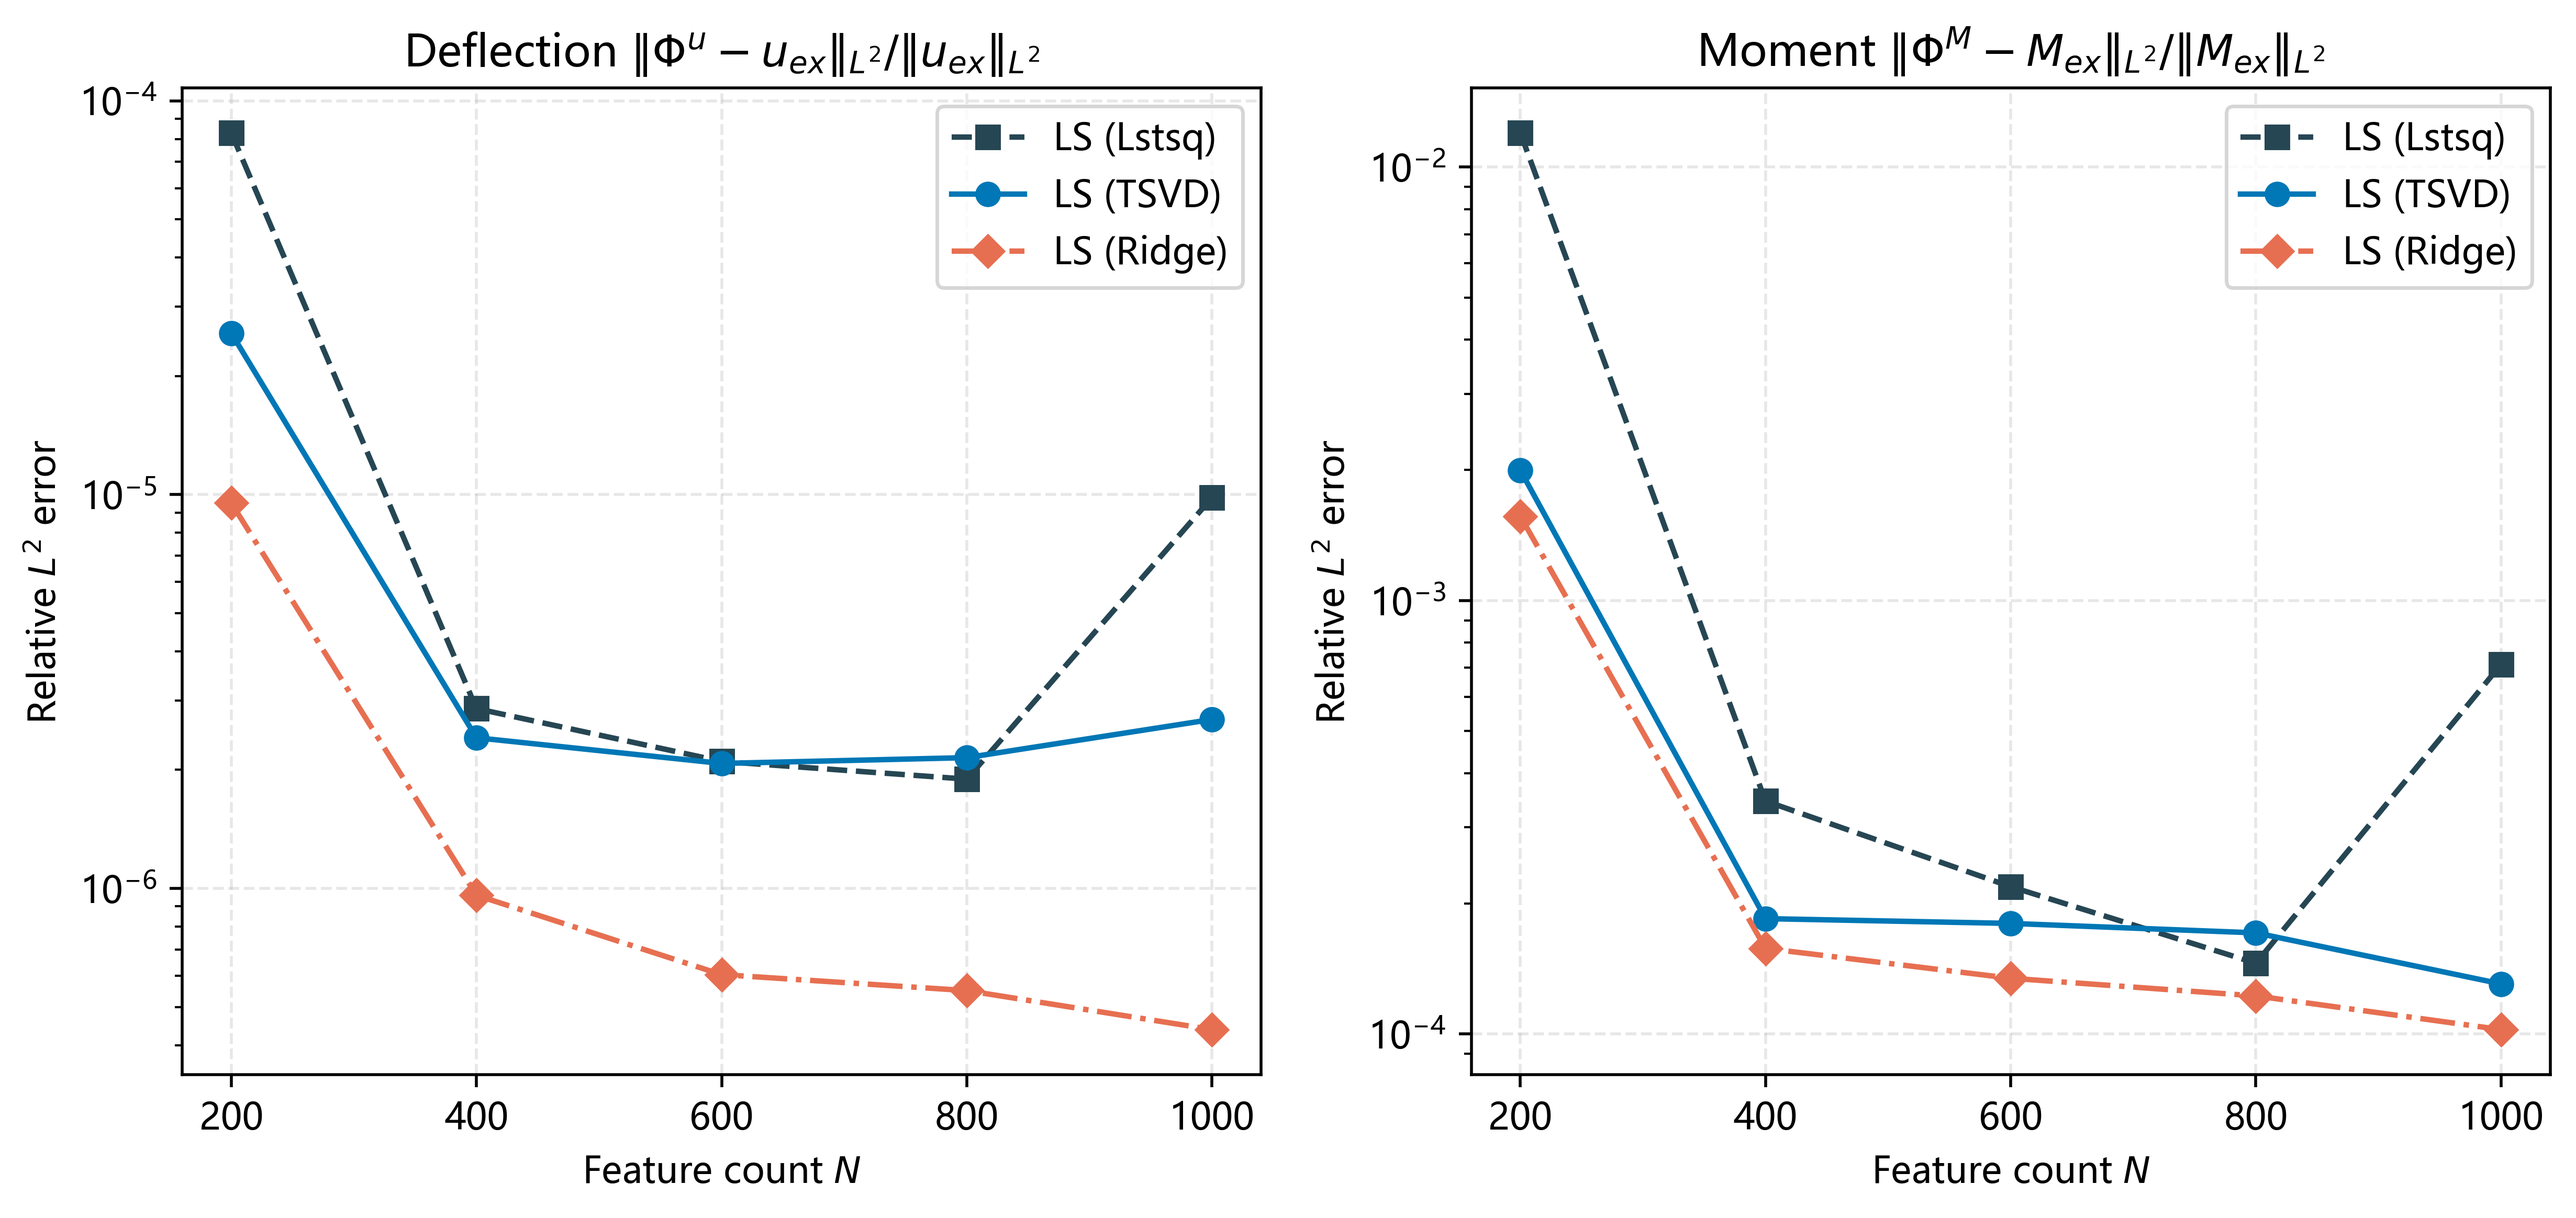
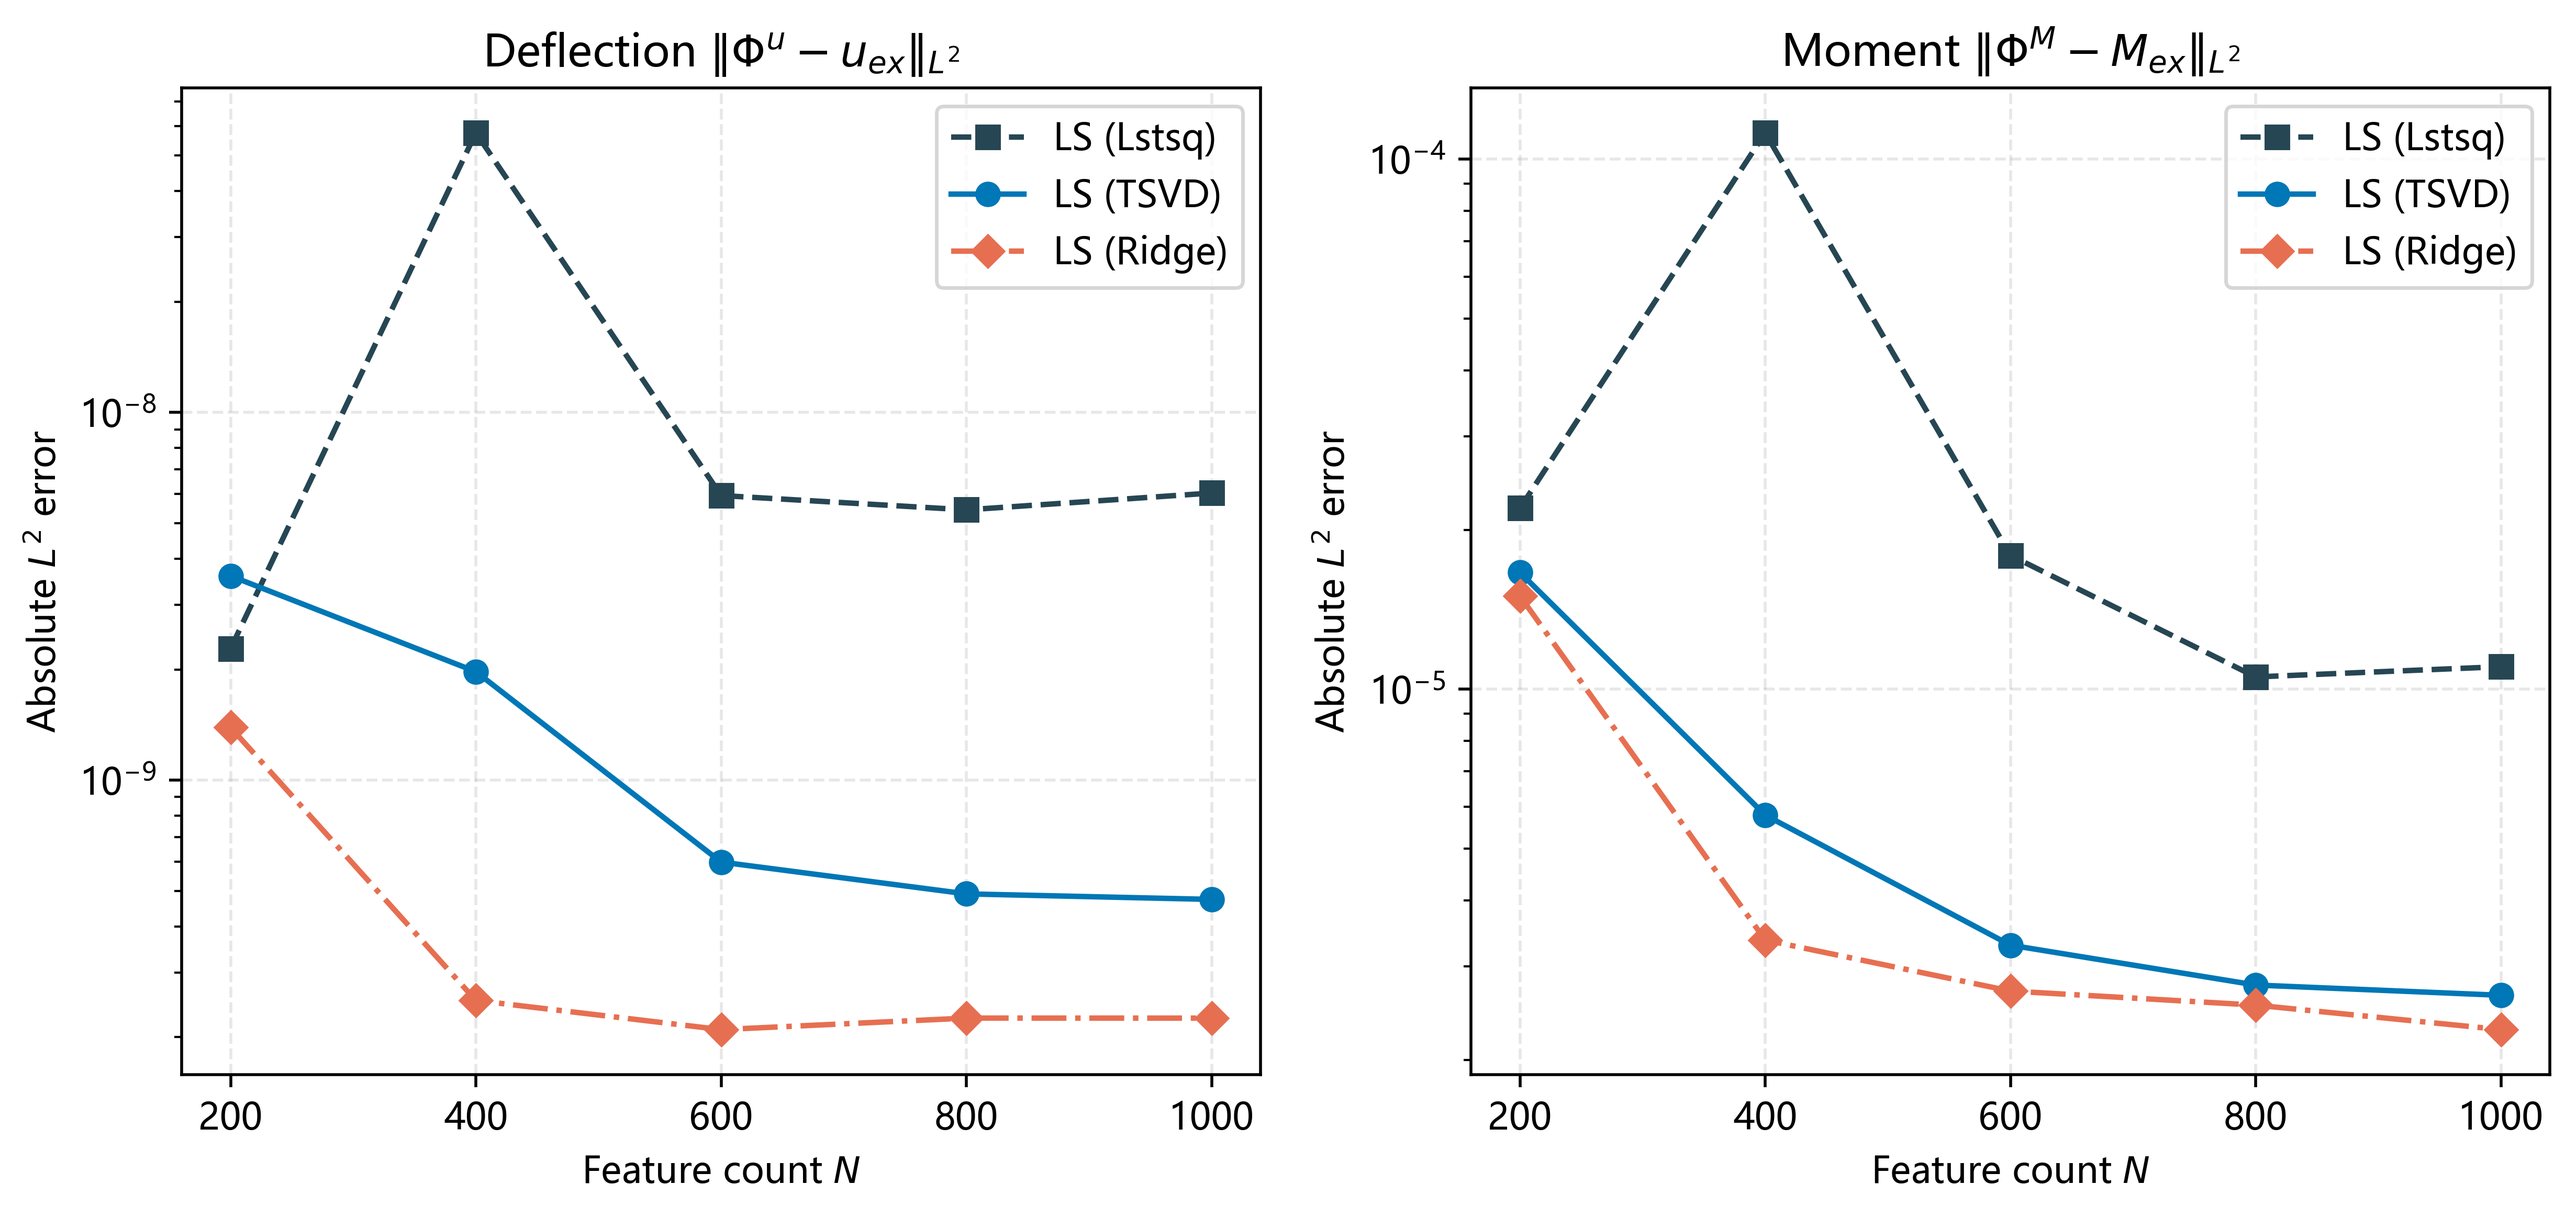
refactor: use absolute errors

diff --git a/experiments/least-squares/plate-bending/plate_bending.py b/experiments/least-squares/plate-bending/plate_bending.py
@@ -21,6 +21,9 @@ DEFLECTION_SEED = BASE_SEED + 1_000
 DTYPE = torch.float64
 VALID_SAMPLING_METHODS = ("mc", "sobol", "gauss_legendre")
 VALID_ALGORITHMS = ("lstsq", "tsvd", "ridge")
+FEATURE_DIM = 2
+FEATURE_CENTER = 0.5
+FEATURE_INV_RADIUS = 2.0 / math.sqrt(FEATURE_DIM)
 PROJECT_ROOT = Path(__file__).resolve().parent.parent.parent.parent
 OUTPUT_DIR = PROJECT_ROOT / "public" / "images" / "least-squares" / "plate-bending"
 OUTPUT_DIR.mkdir(parents=True, exist_ok=True)
@@ -61,8 +64,8 @@ class AlgorithmResult:
     name: str
     r_c: float
     r_e: float
-    rel_u: float
-    rel_M: float
+    abs_u: float
+    abs_M: float
     wall_time: float
 
 
@@ -118,7 +121,7 @@ class FeatureEvaluationData:
 class LeastSquaresConfig:
     """Configuration for the conforming least-squares experiment."""
 
-    E: float = 1.0
+    E: float = 12.0
     nu: float = 0.3
     h: float = 1.0
     gamma_m: float = 3.0
@@ -431,11 +434,17 @@ def generate_features(N: int, seed: int) -> tuple[torch.Tensor, torch.Tensor]:
     generator = torch.Generator(device="cpu")
     generator.manual_seed(seed)
 
-    raw = torch.randn(N, 2, generator=generator, dtype=DTYPE)
+    raw = torch.randn(N, FEATURE_DIM, generator=generator, dtype=DTYPE)
     norms = raw.norm(dim=1, keepdim=True).clamp_min(1.0e-12)
     a = (raw / norms).to(DEVICE)
     r = torch.rand(N, generator=generator, dtype=DTYPE).to(DEVICE)
     return a, r
+
+
+def normalize_feature_coordinates(x: torch.Tensor) -> torch.Tensor:
+    """Map unit-box coordinates into the centered unit ball for features."""
+
+    return (x - FEATURE_CENTER) * FEATURE_INV_RADIUS
 
 
 def eval_features(
@@ -444,9 +453,10 @@ def eval_features(
     r: torch.Tensor,
     gamma: float,
 ) -> torch.Tensor:
-    """Evaluate xi_0 = 1 and xi_m = tanh(gamma (a_m^T x + r_m))."""
+    """Evaluate xi_0 = 1 and xi_m = tanh(gamma (a_m^T x_hat + r_m))."""
 
-    pre = x @ a.T + r.unsqueeze(0)
+    x_hat = normalize_feature_coordinates(x)
+    pre = x_hat @ a.T + r.unsqueeze(0)
     xi = torch.tanh(gamma * pre)
     ones = torch.ones(x.shape[0], 1, dtype=DTYPE, device=DEVICE)
     return torch.cat([ones, xi], dim=1)
@@ -460,11 +470,13 @@ def eval_feature_grads(
 ) -> torch.Tensor:
     """Evaluate gradients of all random features."""
 
-    pre = x @ a.T + r.unsqueeze(0)
+    x_hat = normalize_feature_coordinates(x)
+    pre = x_hat @ a.T + r.unsqueeze(0)
     xi = torch.tanh(gamma * pre)
     dphi = gamma * (1.0 - xi.square())
-    grad_xi = dphi.unsqueeze(2) * a.unsqueeze(0)
-    zeros = torch.zeros(x.shape[0], 1, 2, dtype=DTYPE, device=DEVICE)
+    scaled_a = FEATURE_INV_RADIUS * a
+    grad_xi = dphi.unsqueeze(2) * scaled_a.unsqueeze(0)
+    zeros = torch.zeros(x.shape[0], 1, FEATURE_DIM, dtype=DTYPE, device=DEVICE)
     return torch.cat([zeros, grad_xi], dim=1)
 
 
@@ -476,13 +488,17 @@ def eval_feature_hessians(
 ) -> torch.Tensor:
     """Evaluate Hessian components (11, 22, 12) of all random features."""
 
-    pre = x @ a.T + r.unsqueeze(0)
+    x_hat = normalize_feature_coordinates(x)
+    pre = x_hat @ a.T + r.unsqueeze(0)
     xi = torch.tanh(gamma * pre)
     d2phi = -2.0 * gamma * gamma * xi * (1.0 - xi.square())
+    scaled_a = FEATURE_INV_RADIUS * a
 
-    h11 = d2phi.unsqueeze(2) * a[:, 0].square().unsqueeze(0).unsqueeze(2)
-    h22 = d2phi.unsqueeze(2) * a[:, 1].square().unsqueeze(0).unsqueeze(2)
-    h12 = d2phi.unsqueeze(2) * (a[:, 0] * a[:, 1]).unsqueeze(0).unsqueeze(2)
+    h11 = d2phi.unsqueeze(2) * scaled_a[:, 0].square().unsqueeze(0).unsqueeze(2)
+    h22 = d2phi.unsqueeze(2) * scaled_a[:, 1].square().unsqueeze(0).unsqueeze(2)
+    h12 = d2phi.unsqueeze(2) * (
+        scaled_a[:, 0] * scaled_a[:, 1]
+    ).unsqueeze(0).unsqueeze(2)
     hess = torch.cat([h11, h22, h12], dim=2)
     zeros = torch.zeros(x.shape[0], 1, 3, dtype=DTYPE, device=DEVICE)
     return torch.cat([zeros, hess], dim=1)
@@ -906,7 +922,7 @@ def split_solution(z: torch.Tensor, dim_m: int) -> tuple[torch.Tensor, torch.Ten
     return z[:dim_m], z[dim_m:]
 
 
-def compute_l2_errors(
+def compute_absolute_errors(
     psi_u_test: torch.Tensor,
     xi_m_test: torch.Tensor,
     moment_coeffs: torch.Tensor,
@@ -915,23 +931,17 @@ def compute_l2_errors(
     u_exact: torch.Tensor,
     M_exact: torch.Tensor,
 ) -> tuple[float, float]:
-    """Compute relative L2 errors for deflection and moments."""
+    """Compute absolute L2 errors for deflection and moments."""
 
     M_h = xi_m_test @ moment_coeffs.reshape(-1, 3)
     u_h = psi_u_test @ deflection_coeffs
 
     u_err = torch.sqrt((w_test * (u_h - u_exact).square()).sum())
-    u_ref = torch.sqrt((w_test * u_exact.square()).sum())
-    rel_u = (u_err / u_ref).item() if u_ref > 0 else float("inf")
 
     M_err = torch.sqrt(
         (w_test * (FROBENIUS_WEIGHT * (M_h - M_exact).square()).sum(dim=1)).sum()
     )
-    M_ref = torch.sqrt(
-        (w_test * (FROBENIUS_WEIGHT * M_exact.square()).sum(dim=1)).sum()
-    )
-    rel_M = (M_err / M_ref).item() if M_ref > 0 else float("inf")
-    return rel_u, rel_M
+    return u_err.item(), M_err.item()
 
 
 def compute_coefficient_residual_norms(
@@ -996,7 +1006,7 @@ def evaluate_feature_result(
         moment_coeffs,
         deflection_coeffs,
     )
-    rel_u, rel_M = compute_l2_errors(
+    abs_u, abs_M = compute_absolute_errors(
         data.psi_u_test,
         data.xi_m_test,
         moment_coeffs,
@@ -1009,8 +1019,8 @@ def evaluate_feature_result(
         name=name,
         r_c=r_c,
         r_e=r_e,
-        rel_u=rel_u,
-        rel_M=rel_M,
+        abs_u=abs_u,
+        abs_M=abs_M,
         wall_time=wall_time,
     )
 
@@ -1020,11 +1030,62 @@ def print_result_summary(result: AlgorithmResult) -> None:
 
     print(
         f"    Done in {result.wall_time:.2f}s, "
-        f"||r_c||={result.r_c:.2e}, "
-        f"||r_e||={result.r_e:.2e}, "
-        f"rel_u={result.rel_u:.2e}, "
-        f"rel_M={result.rel_M:.2e}"
+        f"‖Φ^u-u‖={result.abs_u:.2e}, "
+        f"‖Φ^M-M‖={result.abs_M:.2e}"
     )
+
+
+def print_aligned_markdown_table(
+    title: str,
+    headers: Sequence[str],
+    rows: Sequence[Sequence[str]],
+    alignments: Sequence[str],
+) -> None:
+    """Print a compact markdown-style table with content-aware widths."""
+
+    if not rows:
+        return
+    if len(headers) != len(alignments):
+        raise ValueError("headers and alignments must have the same length.")
+    if any(len(row) != len(headers) for row in rows):
+        raise ValueError("Each row must have the same number of columns as headers.")
+
+    widths = [
+        max(len(header), max(len(row[index]) for row in rows))
+        for index, header in enumerate(headers)
+    ]
+
+    def format_row(row: Sequence[str]) -> str:
+        cells: list[str] = []
+        for index, cell in enumerate(row):
+            if alignments[index] == "left":
+                cells.append(f"{cell:<{widths[index]}}")
+            elif alignments[index] == "center":
+                cells.append(f"{cell:^{widths[index]}}")
+            elif alignments[index] == "right":
+                cells.append(f"{cell:>{widths[index]}}")
+            else:
+                raise ValueError(f"Unsupported alignment: {alignments[index]}")
+        return f"| {' | '.join(cells)} |"
+
+    def format_separator() -> str:
+        cells: list[str] = []
+        for index, alignment in enumerate(alignments):
+            if alignment == "left":
+                cells.append(f":{'-' * (widths[index] + 1)}")
+            elif alignment == "center":
+                cells.append(f":{'-' * widths[index]}:")
+            elif alignment == "right":
+                cells.append(f"{'-' * (widths[index] + 1)}:")
+            else:
+                raise ValueError(f"Unsupported alignment: {alignment}")
+        return f"|{'|'.join(cells)}|"
+
+    print(f"\n=== {title} ===\n")
+    print(format_row(headers))
+    print(format_separator())
+    for row in rows:
+        print(format_row(row))
 
 
 def print_summary_table(
@@ -1036,21 +1097,27 @@ def print_summary_table(
     if not results:
         return
 
-    method_width = max(18, max(len(result.name) for result in results))
-    print(f"\n=== {title} ===\n")
-    print(
-        f"| {'Method':<{method_width}} | {'rel_u':>10} | "
-        f"{'rel_M':>10} | {'Time(s)':>8} |"
+    headers = (
+        "Method",
+        "‖Φ^u-u‖",
+        "‖Φ^M-M‖",
+        "Time(s)",
     )
-    print(
-        f"|:{'-' * (method_width + 1)}|{'-' * 11}:|"
-        f"{'-' * 11}:|{'-' * 9}:|"
-    )
-    for result in results:
-        print(
-            f"| {result.name:<{method_width}} | {result.rel_u:>10.2e} | "
-            f"{result.rel_M:>10.2e} | {result.wall_time:>8.2f} |"
+    rows = [
+        (
+            result.name,
+            f"{result.abs_u:.2e}",
+            f"{result.abs_M:.2e}",
+            f"{result.wall_time:.2f}",
         )
+        for result in results
+    ]
+    print_aligned_markdown_table(
+        title=title,
+        headers=headers,
+        rows=rows,
+        alignments=("left", "center", "center", "center"),
+    )
 
 
 def configure_plotting() -> None:
@@ -1064,7 +1131,7 @@ def plot_l2_summary(
     results: Sequence[AlgorithmResult],
     save_path: str,
 ) -> None:
-    """Plot final relative L2 errors as bar charts."""
+    """Plot final absolute L2 errors as bar charts."""
 
     if not results:
         print(f"  Skipped: {save_path} (no results to plot)")
@@ -1073,10 +1140,10 @@ def plot_l2_summary(
     configure_plotting()
     fig, axes = plt.subplots(1, 2, figsize=(10, 4.5))
     titles = [
-        r"Deflection $\|\Phi^u - u_{ex}\|_{L^2} / \|u_{ex}\|_{L^2}$",
-        r"Moment $\|\Phi^M - M_{ex}\|_{L^2} / \|M_{ex}\|_{L^2}$",
+        r"Deflection $\|\Phi^u - u_{ex}\|_{L^2}$",
+        r"Moment $\|\Phi^M - M_{ex}\|_{L^2}$",
     ]
-    keys = ["rel_u", "rel_M"]
+    keys = ["abs_u", "abs_M"]
     labels = [result.name for result in results]
     x_positions = np.arange(len(results), dtype=float)
     colors = [
@@ -1101,7 +1168,7 @@ def plot_l2_summary(
             print(f"  Skipped {labels[index]} {key}={values[index]!r} in {save_path}")
 
         ax.set_yscale("log")
-        ax.set_ylabel("Relative $L^2$ error")
+        ax.set_ylabel("Absolute $L^2$ error")
         ax.set_title(title)
         ax.set_xticks(x_positions)
         ax.set_xticklabels(labels, rotation=20, ha="right")

diff --git a/experiments/least-squares/plate-bending/ablation_N.py b/experiments/least-squares/plate-bending/ablation_N.py
@@ -22,6 +22,7 @@ from plate_bending import (
     build_shared_feature_space,
     clear_cuda_cache,
     configure_plotting,
+    print_aligned_markdown_table,
     run_experiment,
     validate_algorithm_selection,
 )
@@ -118,27 +119,29 @@ def print_ablation_summary_table(
     if not ordered_records:
         return
 
-    method_width = max(
-        18,
-        max(len(record.algorithm_name) for record in ordered_records),
+    headers = (
+        "Method",
+        "N",
+        "‖Φ^u-u‖",
+        "‖Φ^M-M‖",
+        "Time(s)",
     )
-
-    print("\n=== N Ablation Summary ===\n")
-    print(
-        f"| {'Method':<{method_width}} | {'N':>6} | "
-        f"{'rel_u':>10} | {'rel_M':>10} | {'Time(s)':>8} |"
-    )
-    print(
-        f"|:{'-' * (method_width + 1)}|{'-' * 7}:|"
-        f"{'-' * 11}:|{'-' * 11}:|{'-' * 9}:|"
-    )
-    for record in ordered_records:
-        result = record.result
-        print(
-            f"| {record.algorithm_name:<{method_width}} | {record.N:>6} | "
-            f"{result.rel_u:>10.2e} | {result.rel_M:>10.2e} | "
-            f"{result.wall_time:>8.2f} |"
+    rows = [
+        (
+            record.algorithm_name,
+            str(record.N),
+            f"{record.result.abs_u:.2e}",
+            f"{record.result.abs_M:.2e}",
+            f"{record.result.wall_time:.2f}",
         )
+        for record in ordered_records
+    ]
+    print_aligned_markdown_table(
+        title="N Ablation Summary",
+        headers=headers,
+        rows=rows,
+        alignments=("left", "center", "center", "center", "center"),
+    )
 
 
 def plot_ablation_N(
@@ -146,7 +149,7 @@ def plot_ablation_N(
     algorithm_ids: list[str],
     save_path: str,
 ) -> None:
-    """Plot relative L2 error versus N for each configured solver."""
+    """Plot absolute L2 error versus N for each configured solver."""
 
     if not results:
         print(f"  Skipped: {save_path} (no results to plot)")
@@ -160,14 +163,14 @@ def plot_ablation_N(
     fig, axes = plt.subplots(1, 2, figsize=(fig_width, 4.8))
     metric_specs = [
         (
-            "rel_u",
-            r"Deflection $\|\Phi^u - u_{ex}\|_{L^2} / \|u_{ex}\|_{L^2}$",
-            "Relative $L^2$ error",
+            "abs_u",
+            r"Deflection $\|\Phi^u - u_{ex}\|_{L^2}$",
+            "Absolute $L^2$ error",
         ),
         (
-            "rel_M",
-            r"Moment $\|\Phi^M - M_{ex}\|_{L^2} / \|M_{ex}\|_{L^2}$",
-            "Relative $L^2$ error",
+            "abs_M",
+            r"Moment $\|\Phi^M - M_{ex}\|_{L^2}$",
+            "Absolute $L^2$ error",
         ),
     ]
 
